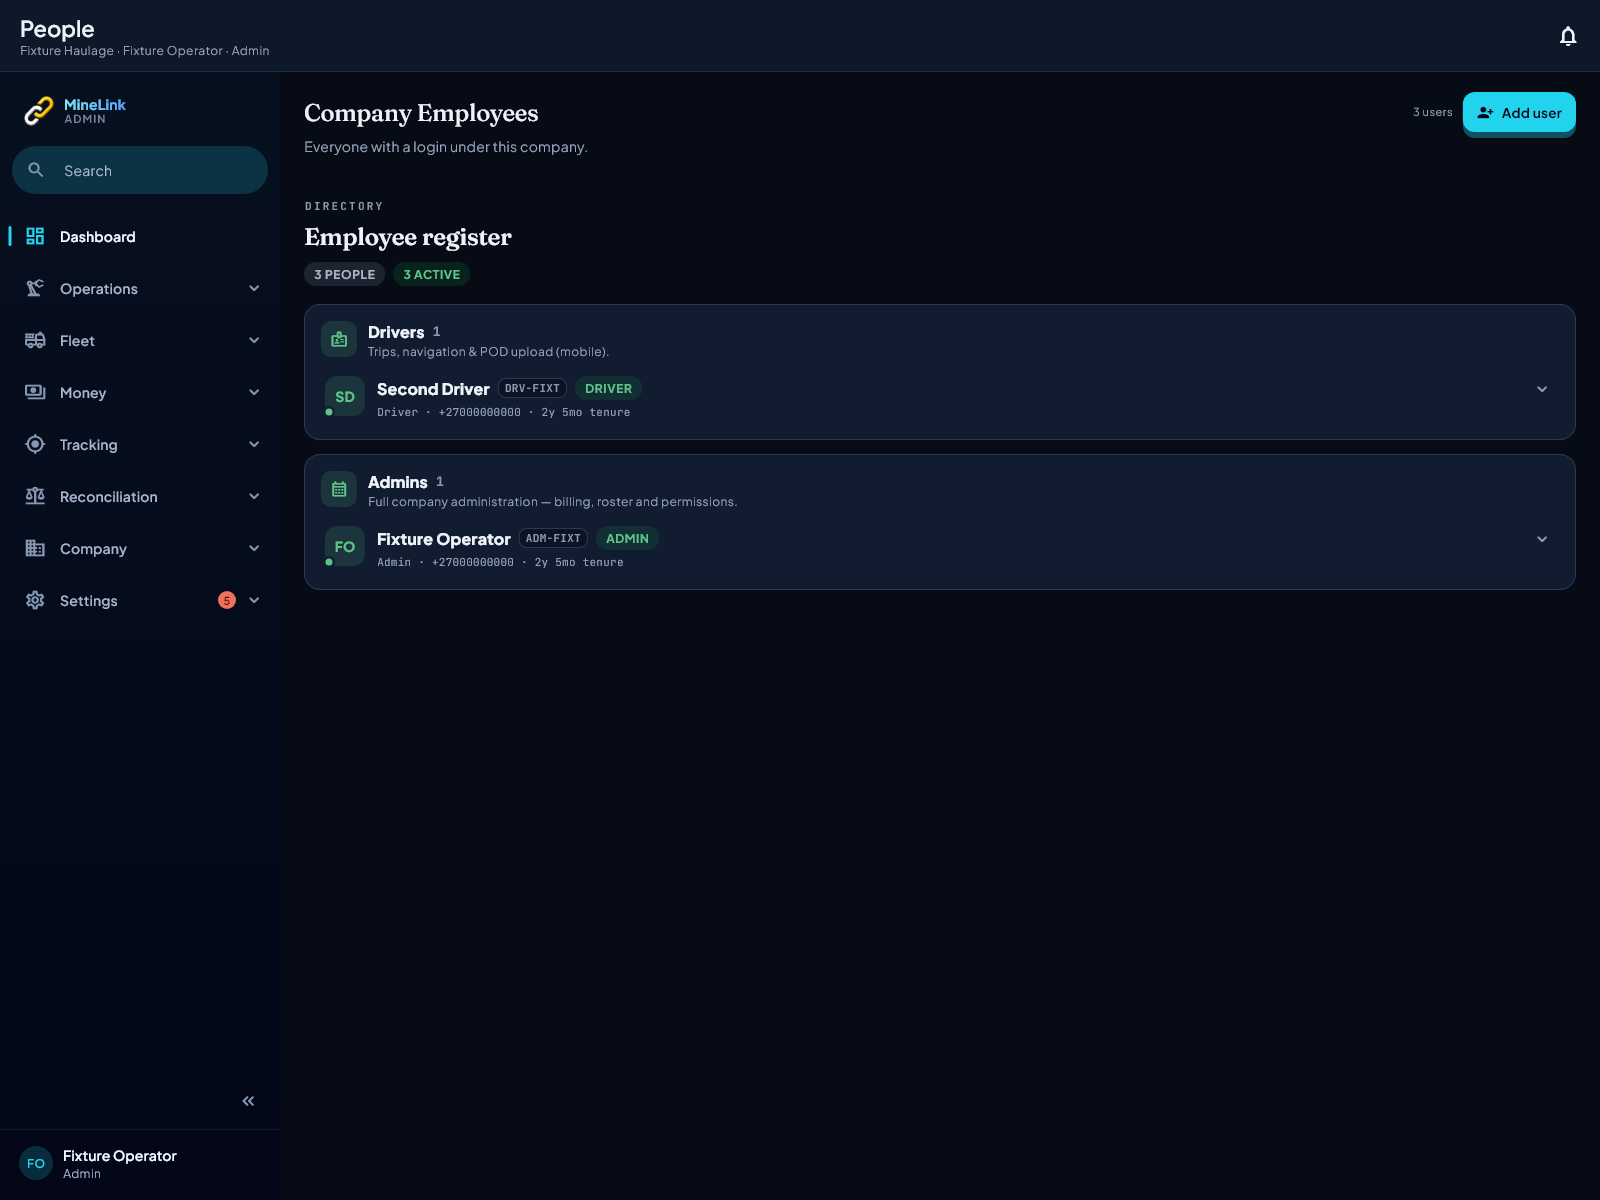
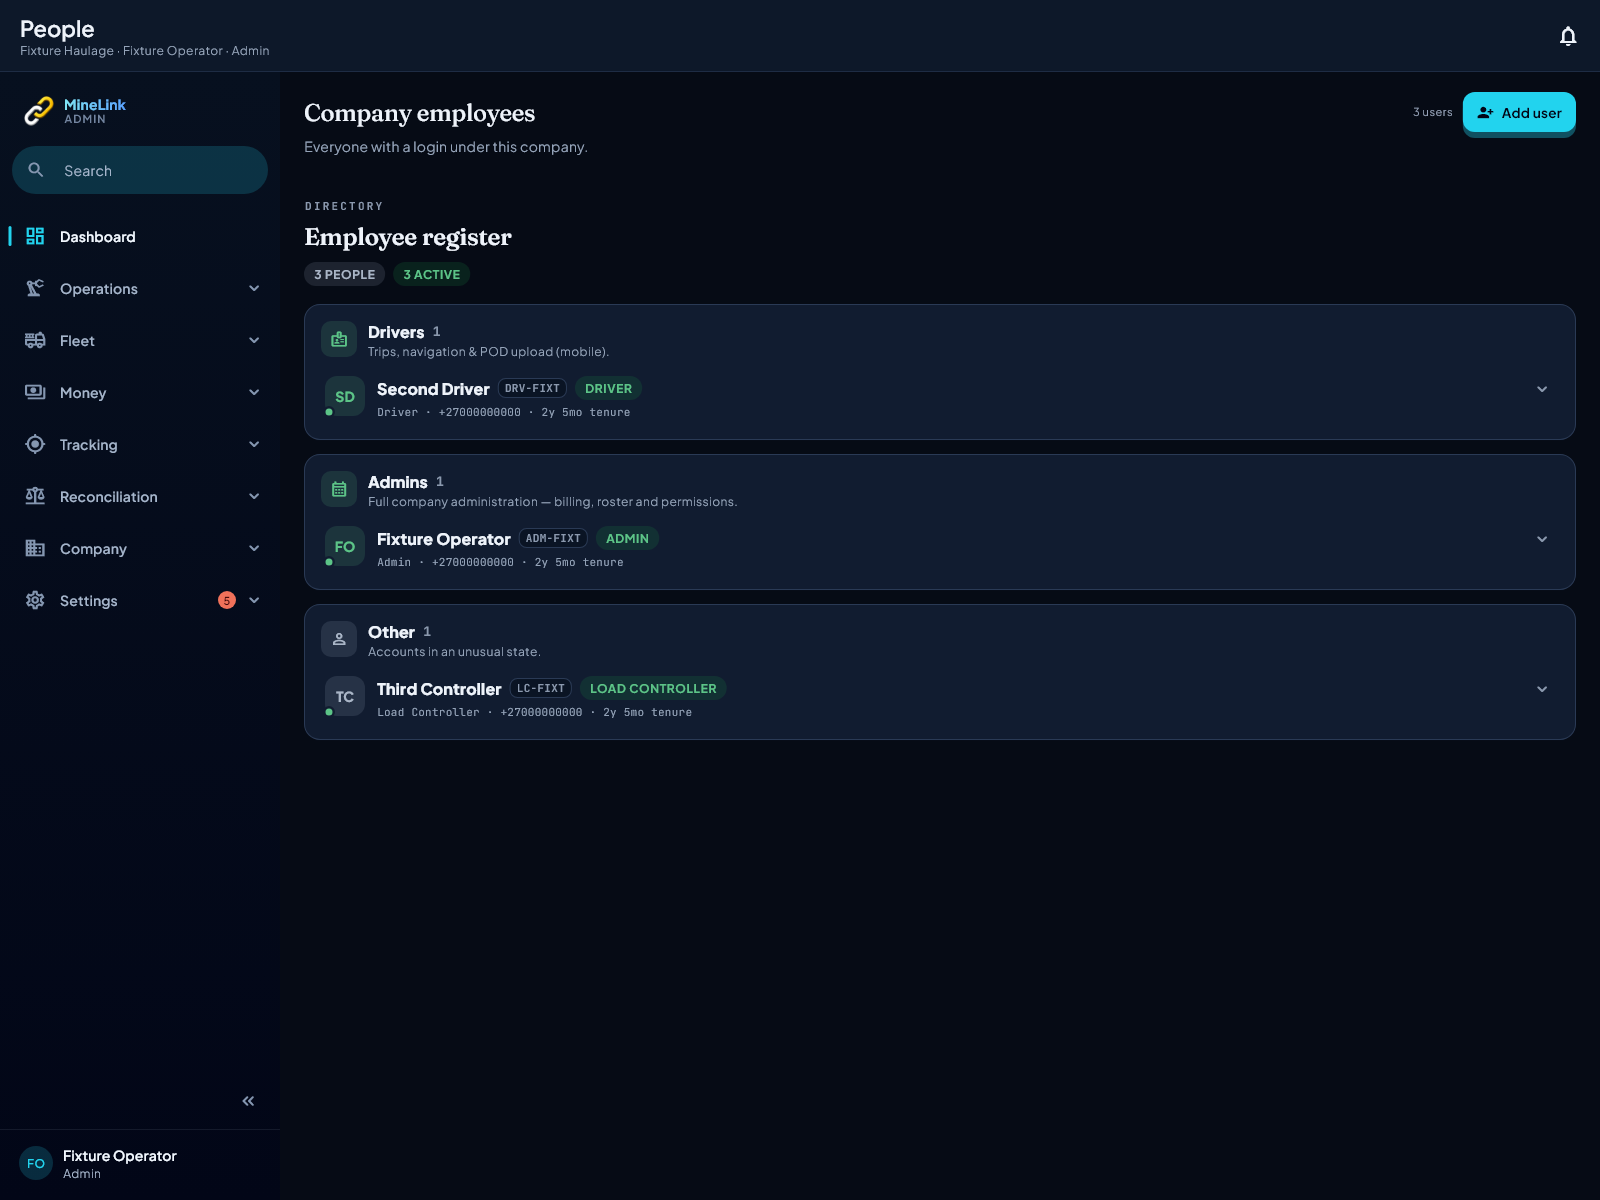
fix(employees): a counted employee is always drawn — an off-org role lands in Other; labels in sentence case
Phase 3 mine-portal pass, 2026-08-23, found independently by three
reviewers. The register's role groups iterate `UserRole.getRolesForOrgType`
and its "Other" group caught only `role == null`, so an ACTIVE employee
whose role is not one this org type has — the fixture's weighbridge
controller at a transporter — was counted in "3 PEOPLE · 3 ACTIVE" and
drawn in no group: the register said three and listed two. A register that
silently drops a person is the worst thing a register can do, and "an
unusual state" is exactly what Other is for; production's
`enforce_employee_role_org_type` should make it rare, which is why a
fixture had to find it. Twelve labels were title case ("Company
Employees", "Management Access Required", "Add User", "Accept Employee
Request", "Manage User And Role" …) → sentence case.

Pinned by company_employees_register_test.dart: every employee in the
fixture roster is drawn (the case first asserts the roster carries an
off-org role), and the casing. Sabotaged by stashing the screen: "Third
Controller is counted but not drawn". Two goldens regenerated and looked at
— the third person now appears under Other.

Changed region(s): [[0.1875, 0.4933, 1.0, 0.6167], [0.25, 0.0925, 0.3438, 0.1233]]

diff --git a/lib/features/company/screens/company_employees_screen.dart b/lib/features/company/screens/company_employees_screen.dart
@@ -62,7 +62,7 @@ class _CompanyEmployeesScreenState
         Padding(
           padding: const EdgeInsets.fromLTRB(24, 20, 24, 0),
           child: MlPageHeader(
-            title: 'Company Employees',
+            title: 'Company employees',
             description: 'Everyone with a login under this company.',
             meta: mlCount(state.employees.length, 'user'),
             actions: [
@@ -95,7 +95,7 @@ class _CompanyEmployeesScreenState
   Widget _buildRestrictedState(BuildContext context) {
     return const MlEmptyState(
       icon: Icons.lock_outline,
-      title: 'Management Access Required',
+      title: 'Management access required',
       message:
           'Only company owners, admins, and management can add, edit, or remove company users.',
     );
@@ -269,7 +269,7 @@ class _CompanyEmployeesScreenState
     showDialog(
       context: context,
       builder: (dialogContext) => AlertDialog(
-        title: const Text('Remove User'),
+        title: const Text('Remove user'),
         content: Text(
           'Remove ${employee.fullName} from this company? This will remove their role and company access, but it will not delete their auth account.',
         ),
@@ -348,10 +348,10 @@ class _CompanyEmployeesScreenState
   Widget _buildEmptyState(BuildContext context, OrgType orgType) {
     return MlEmptyState(
       icon: Icons.people_outline,
-      title: 'No Employees Found',
+      title: 'No employees found',
       message: "Your company doesn't have any employees yet.",
       action: MlButton.primary(
-        label: 'Add User',
+        label: 'Add user',
         icon: Icons.person_add_alt_1,
         onPressed: () => _showCreateUserDialog(context, orgType),
       ),
@@ -362,7 +362,7 @@ class _CompanyEmployeesScreenState
     showDialog(
       context: context,
       builder: (dialogContext) => AlertDialog(
-        title: const Text('Accept Employee Request'),
+        title: const Text('Accept employee request'),
         content: Column(
           mainAxisSize: MainAxisSize.min,
           crossAxisAlignment: CrossAxisAlignment.start,
@@ -441,7 +441,7 @@ class _CompanyEmployeesScreenState
     showDialog(
       context: context,
       builder: (dialogContext) => AlertDialog(
-        title: const Text('Confirm Role Change'),
+        title: const Text('Confirm role change'),
         content: Text(
           'Change ${employee.fullName}\'s role from $currentRoleText to ${newRole.label}. Are you sure?',
         ),
@@ -500,7 +500,7 @@ class _CompanyEmployeesScreenState
     showDialog(
       context: context,
       builder: (dialogContext) => AlertDialog(
-        title: const Text('Decline Request'),
+        title: const Text('Decline request'),
         content: Text(
           'Are you sure you want to decline ${employee.fullName}\'s request to join your company? This action cannot be undone.',
         ),
@@ -562,13 +562,13 @@ class _CompanyEmployeesScreenState
       runSpacing: 8,
       children: [
         MlButton.tonal(
-          label: 'Edit User',
+          label: 'Edit user',
           icon: Icons.edit_outlined,
           compact: true,
           onPressed: () => _showEditUserDialog(context, employee, orgType),
         ),
         MlButton.outline(
-          label: 'Remove User',
+          label: 'Remove user',
           icon: Icons.person_remove_alt_1_outlined,
           compact: true,
           onPressed: () => _showRemoveConfirmationDialog(context, employee),
@@ -632,7 +632,7 @@ class _CompanyEmployeesScreenState
             children: [
               const Expanded(
                 child: Text(
-                  'Pending Request',
+                  'Pending request',
                   style: TextStyle(
                     fontFamily: MlTokens.fontSans,
                     fontWeight: FontWeight.w800,
@@ -689,7 +689,7 @@ class _CompanyEmployeesScreenState
           _buildManagementButtons(context, employee, orgType),
           const SizedBox(height: 12),
           Text(
-            'Select Role:',
+            'Select role:',
             style: context.mlText.titleSmall.copyWith(
               color: MlSemantic.of(context).textStrong,
               fontWeight: FontWeight.w700,
@@ -724,7 +724,7 @@ class _CompanyEmployeesScreenState
         crossAxisAlignment: CrossAxisAlignment.start,
         children: [
           Text(
-            'Manage User And Role',
+            'Manage user and role',
             style: context.mlText.titleMedium.copyWith(
               color: MlSemantic.of(context).textStrong,
               fontWeight: FontWeight.w800,
@@ -861,11 +861,20 @@ class _CompanyEmployeesScreenState
     final awaitingRole = employees
         .where((e) => e.status == 'pending_role' && e.role == null)
         .toList(growable: false);
+    // "Other" also catches an ACTIVE employee whose role is not one this
+    // org type has. The role groups below iterate `getRolesForOrgType`, so
+    // a weighbridge controller at a transporter matched no group — and
+    // `other` only caught `role == null` — so he was counted in "3 PEOPLE ·
+    // 3 ACTIVE" and drawn nowhere. An employee who silently vanishes from
+    // the register is the worst outcome a register can have; an unusual
+    // state is what this group is for. Phase 3 mine pass, 2026-08-23.
+    final orgRoles = UserRole.getRolesForOrgType(orgType).toSet();
     final other = employees
         .where((e) =>
-            e.role == null &&
-            e.status != 'pending_company' &&
-            !(e.status == 'pending_role'))
+            (e.role == null &&
+                e.status != 'pending_company' &&
+                !(e.status == 'pending_role')) ||
+            (e.role != null && !orgRoles.contains(e.role)))
         .toList(growable: false);
 
     final sections = <Widget>[

diff --git a/test/features/company/company_employees_register_test.dart b/test/features/company/company_employees_register_test.dart
@@ -1,0 +1,77 @@
+// The employees register shows everyone it counts, and reads in sentence case.
+//
+// Phase 3 mine-portal pass, 2026-08-23 (found independently by three
+// reviewers). The role groups iterate `UserRole.getRolesForOrgType`, and the
+// "Other" group caught only `role == null`, so an ACTIVE employee whose role
+// is not one this org type has — the fixture's weighbridge controller at a
+// transporter — was counted in "3 PEOPLE · 3 ACTIVE" and drawn in no group.
+// A register that silently drops a person is the worst thing a register can
+// do; "an unusual state" is what Other is for. And twelve labels were title
+// case ("Company Employees", "Add User", "Manage User And Role" …).
+
+import 'package:flutter/material.dart';
+import 'package:flutter_riverpod/flutter_riverpod.dart';
+import 'package:flutter_test/flutter_test.dart';
+import 'package:shared_preferences/shared_preferences.dart';
+import 'package:supabase_flutter/supabase_flutter.dart';
+
+import 'package:flutter_application_1/core/theme/app_theme.dart';
+import 'package:flutter_application_1/features/auth/models/user_type.dart';
+import 'package:flutter_application_1/features/company/screens/company_employees_screen.dart';
+
+import '../../fixtures/screen_fixtures.dart';
+import '../../test_helpers/real_fonts.dart';
+import '../../test_helpers/frozen_clock.dart';
+
+void main() {
+  setUpAll(() async {
+    freezeCaptureClock();
+    await loadRealFonts();
+    SharedPreferences.setMockInitialValues({});
+    await Supabase.initialize(
+      url: 'http://localhost:54321',
+      anonKey: 'company-employees-register-test',
+    );
+  });
+
+  Future<void> pump(WidgetTester tester) async {
+    tester.view.physicalSize = const Size(1600, 1600);
+    tester.view.devicePixelRatio = 1.0;
+    addTearDown(tester.view.reset);
+    await tester.pumpWidget(ProviderScope(
+      overrides: companyScopeOverrides(
+          role: UserRole.admin, orgType: OrgType.transporter),
+      child: MaterialApp(
+        theme: AppTheme.darkTheme,
+        home: const Scaffold(body: CompanyEmployeesScreen()),
+      ),
+    ));
+    await tester.pump();
+    await tester.pump(const Duration(milliseconds: 600));
+  }
+
+  testWidgets('every counted employee is drawn — an off-org role lands in Other',
+      (tester) async {
+    await pump(tester);
+    final roster = fixtureRoster();
+    final offOrg = roster.where((e) =>
+        e.role != null &&
+        !UserRole.getRolesForOrgType(OrgType.transporter).contains(e.role));
+    expect(offOrg, isNotEmpty,
+        reason: 'the fixture must carry an off-org role for this to bite');
+    expect(find.text('${roster.length} PEOPLE'), findsOneWidget);
+    for (final e in roster) {
+      expect(find.textContaining(e.lastName), findsWidgets,
+          reason: '${e.firstName} ${e.lastName} is counted but not drawn');
+    }
+  });
+
+  testWidgets('labels are sentence case', (tester) async {
+    await pump(tester);
+    expect(find.text('Company employees'), findsOneWidget);
+    expect(find.text('Add user'), findsWidgets);
+    for (final stale in const ['Company Employees', 'Add User']) {
+      expect(find.text(stale), findsNothing, reason: '"$stale" is back');
+    }
+  });
+}
